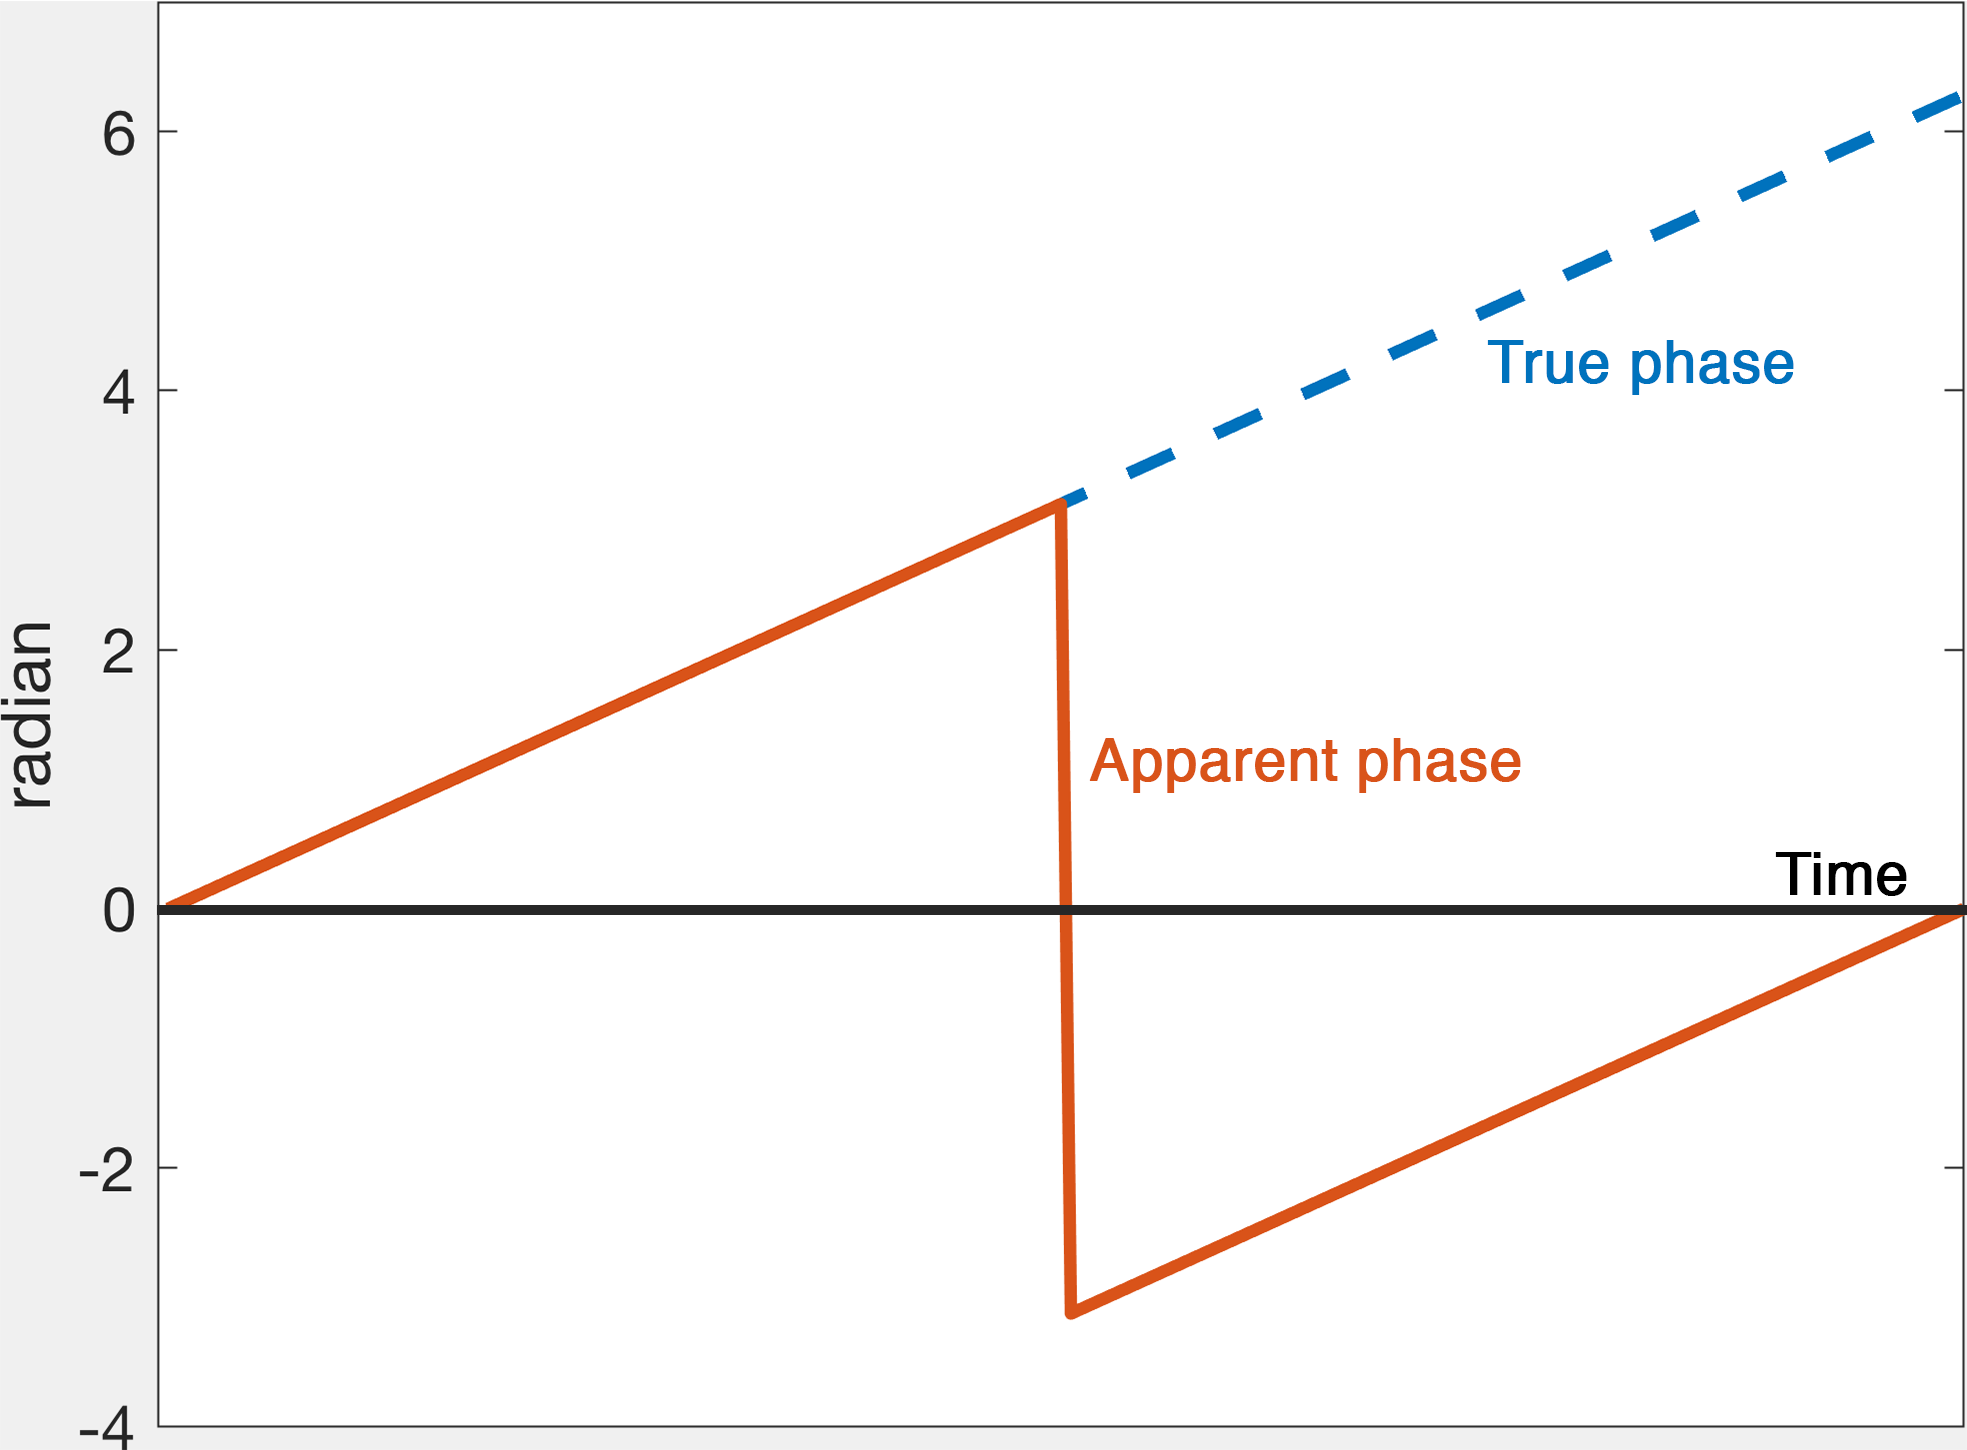
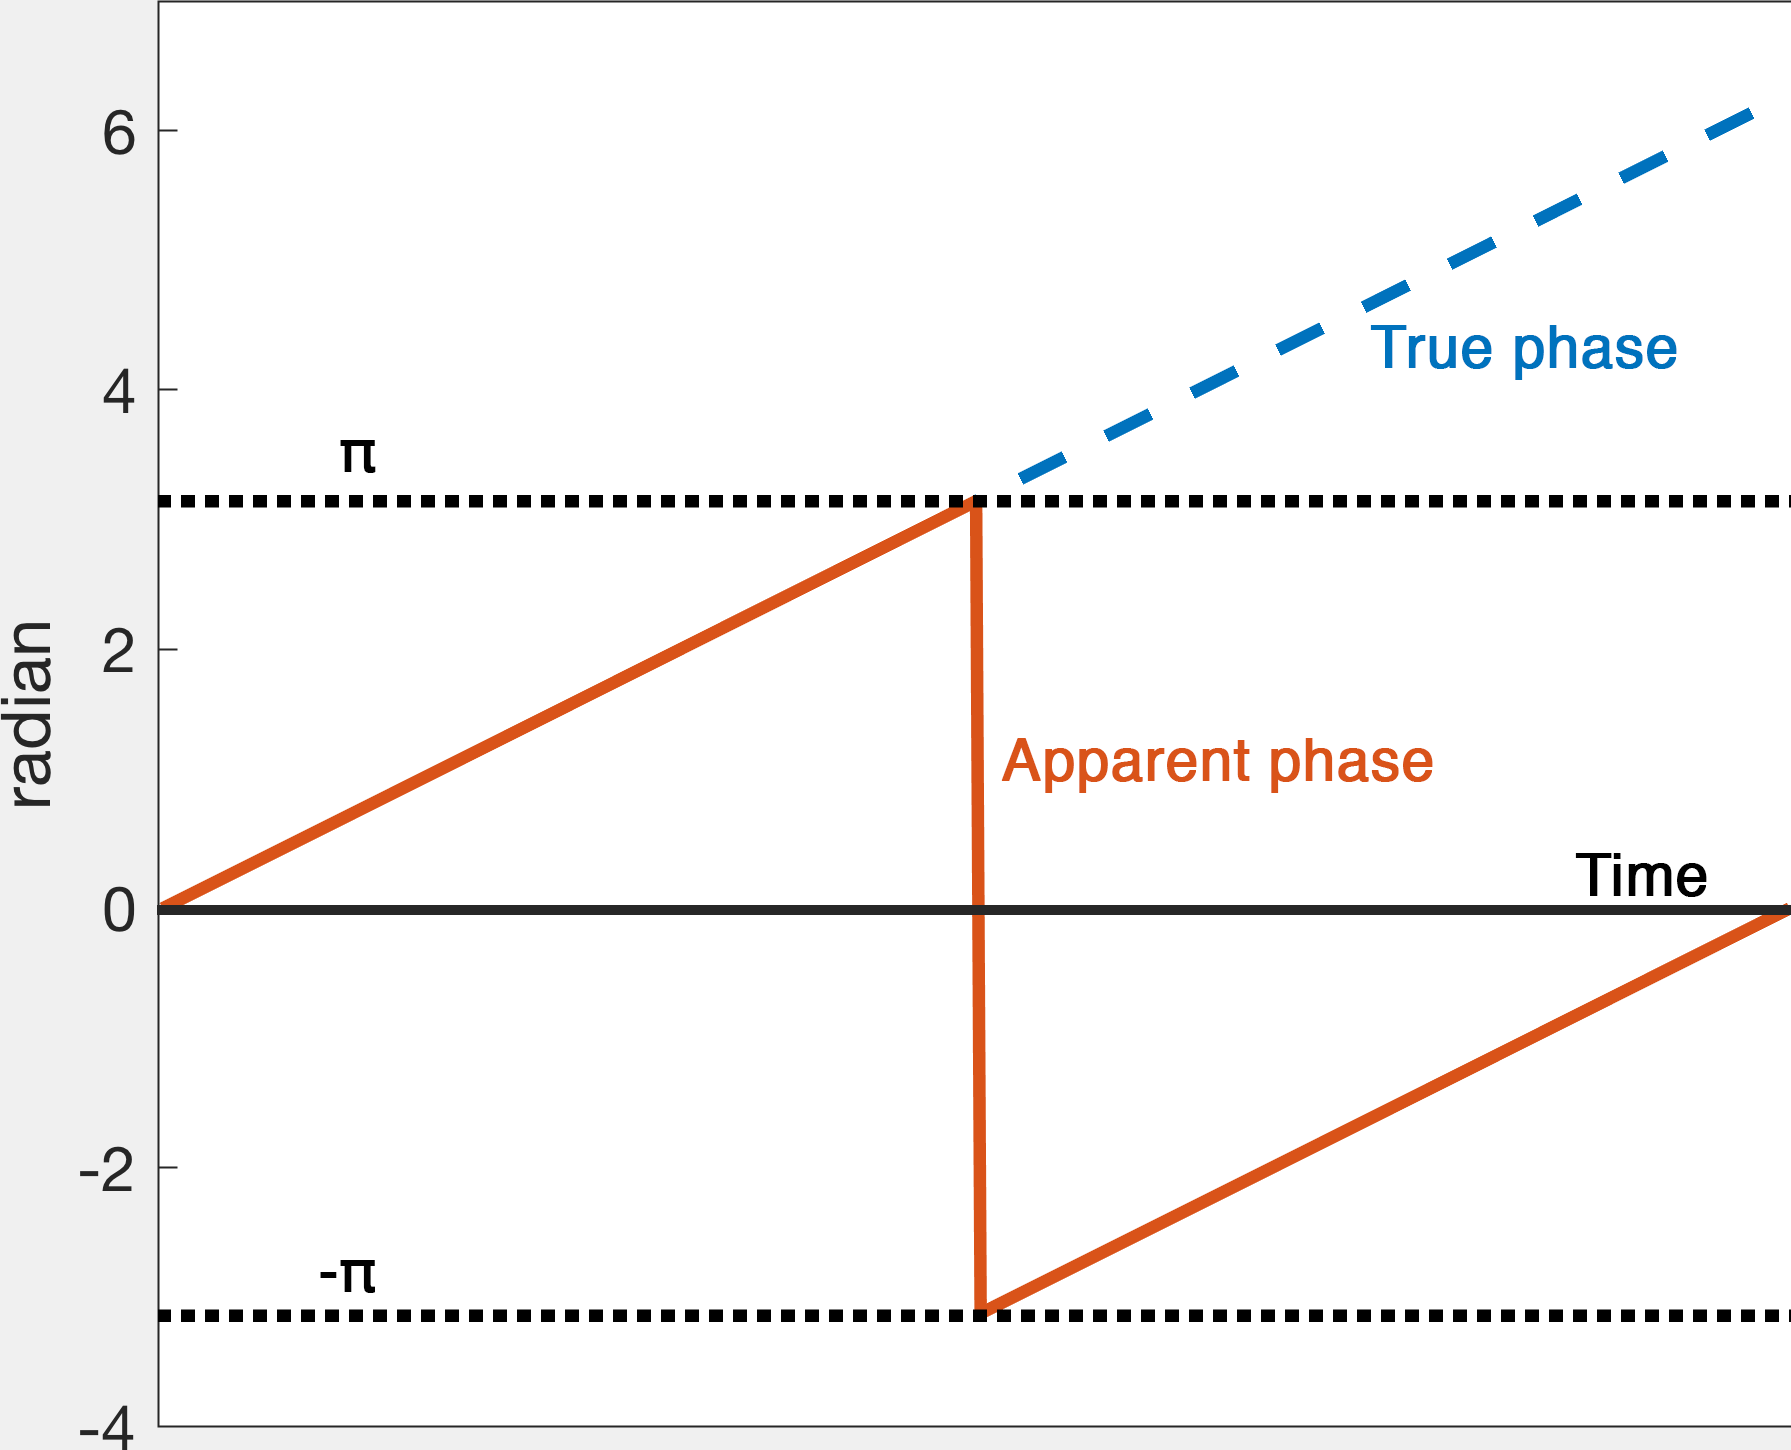
new commit

diff --git a/tutorial/fMRItoolkit2019/Exercise3.rst b/tutorial/fMRItoolkit2019/Exercise3.rst
@@ -1,4 +1,6 @@
 .. _fmritoolkit2019-exercise3:
+.. role::  raw-html(raw)
+    :format: html
 
 Exercise 3
 ==========
@@ -56,31 +58,46 @@ In this exercise, we will focus on the differences when using different 'Peel' v
 
 1. Change the **Output basename** to: *~/qsm_tutorial/data/output_backgroundremove/Sepia_peel-2*
 
-2. Press the **Start** button. Again, you will see the message '*Processing pipeline is completed!*' when the process is finished. 
+2. Press the **Start** button. Again, when the process is finished, you will see the message:
+   '*Processing pipeline is completed!*'. 
 
 3. After the first processing is done, change the 'Peel' value to '4'
 
 4. Change the **Output Basename** to *~/qsm_tutorial/data/output_backgroundremove/Sepia_peel-4* and then press the **Start**
 
-5. Use FSLeyes to display both output images (should be in *~/qsm_tutorial/data/output_backgroundremove/*) at the same time:
+5. Use FSLView to display the local field map (Hz) when using 'Peel' value of 2 (should be in *~/qsm_tutorial/data/output_backgroundremove/*):
 
-  ``fsleyes Sepia_peel-2_local-field.nii.gz``
+  ``fslview_deprecated Sepia_peel-2_local-field.nii.gz &``
 
-  You can do this using the '+' button in the bottom right panel and select *Sepia_peel-4_local-field.nii.gz* in the window provided. 
+  Load the *Sepia_peel-4_local-field.nii.gz* map in the same window. You can do this by selecting 'File :raw-html:`&rarr;` Add...' (or shorcut `Crtl+A`) and select *Sepia_peel-4_local-field.nii.gz* in the window provided. 
 
-  .. image:: images/plus_button.png
+  .. image:: images/add_new_file.png
      :align: center
  
-  Adjust the display window to 'Min. -5' and 'Max. 5'. Use the 'Opacity' slide to alter the transparency of the top image. What is the main difference between the two results?
+  #. Adjust the display window to 'Min -5' and 'Max 5' for both images. 
+  
+  #. Go to location [119 142 88] so that you can see the differences between the two maps with a better view. 
+  
+  #. Check/Uncheck the 'Visibility' button in the buttom of the viewer to turn on/off of the top image. What is the main difference between the two results?
 
-  .. image:: images/local_field_window.png
+  .. image:: images/visibility_button.png
      :align: center
 
 Note that you can also see very clearly the contrast between grey and white matter, and veins and tissue now. Other structures as the globus pallidus, red nuclei and substantia nigra are visible... but not quite normal.
 
-7. Compare the location of the edges with what you can see in the mean magnitude image. This can be computed on the terminal using (assuming you are still in the data directory, if not then go back to the data directory *~/qsm_tutorial/data/*):
+6. Compare the location of the edges with what you can see in the mean magnitude image. (Assuming you are still in the data directory, if not then go back to the data directory *~/qsm_tutorial/data/* in the terminal) This can be computed on the terminal using:
 
   ``fslmaths mag.nii.gz -Tmean mag_mean.nii.gz``
+
+  #. Use shortcut `Crtl+A` in the viewer to add *mag_mean.nii.gz* to the currently displayed loca field maps.
+
+  #. Adjust the display window of *mag_mean.nii.gz* to 'Min 0' and 'Max 300'.
+
+  #. Go to location [133 155 81] which is the top edge of the globus pallidus.
+
+  #. Check/Uncheck the 'Visibility' button to turn on/off of the mean magnitude image.
+
+  #. It is known that there is high concentration of iron deposition (i.e. paramagnetic substance) in the globus pallidus. Can you identify the secondary magnetic field generated by this structure?
 
 Proceed to :ref:`fmritoolkit2019-exercise4`.
 

diff --git a/tutorial/fMRItoolkit2019/Exercise1.rst b/tutorial/fMRItoolkit2019/Exercise1.rst
@@ -65,18 +65,20 @@ You will see two NIfTI images (.nii.gz) and a few JSON files (.json) in the dire
 Magnitude images
 ^^^^^^^^^^^^^^^^
 
-Take a look at the magnitude images. You can do this by calling the image viewer FSLeyes in the terminal:
+Take a look at the magnitude images. You can do this by calling the image viewer FSLView in the terminal:
 
-``fsleyes mag.nii.gz``
+``fslview_deprecated mag.nii.gz &``
 
-.. tip:: If you can't see the movie with FSLeyes, replace the command ``fsleyes`` by ``fslview_deprecated``.
+.. note:: The '&' character will enable the viewer running in the background so that you can still work with the current section in the terminal.
 
-Once you have the magnitude images opened in the viewer, adjust the display window to 'Min. 0' and 'Max. 300'. Then click the movie button to see how the brain contrast changes over time.
+Once you have the magnitude images opened in the viewer, adjust the display window to 'Min 0' and 'Max 300'. Then click the movie button to see how the brain contrast changes over time.
 
 .. image:: images/mag_display.png
    :align: center
 
-You can also press ``Ctrl+3`` to see the plot of signal evolution at different brain tissues. Select a few data points in the brain (e.g. [98 169 87], [143 106 92], and [159 190 77]), how do you describe the signal curve? 
+.. note:: Due to the file size, it is better to view the images with FSLView instead of FSLeyes.
+
+You can also press ``Ctrl+T`` to see the plot of signal evolution at different brain tissues. Select a few data points in the brain (e.g. caudate nucleus [98 169 87], white matter [143 106 92], and cortical grey matter [159 190 77]), how do you describe the signal curves? 
 
 .. toctree::
    :maxdepth: 1
@@ -88,11 +90,11 @@ Phase images
 
 Take a look at the phase images:
 
-``fsleyes phase.nii.gz``
+``fslview_deprecated phase.nii.gz &``
 
 The phase images look different compared to the magnitude images and with the current display window it is hard to see any contrast of brain tissues. 
 
-Adjust the display window to 'Min. -3.14' and 'Max. -1', you should be able to identify some brain structures. 
+Adjust the display window to 'Min. -3.14' and 'Max. -1', and go through different slices. You should be able to identify some brain structures (e.g. at location [114 170 82]). 
 
 .. image:: images/phase_display.png
    :align: center
@@ -110,7 +112,7 @@ Based on Eq. :eq:`pft`, it is expected the phase increases/decreases monotonical
 
    Exercise1_progress2
 
-Press ``Ctrl+3`` to see the phase curve at those problematic regions. Can you identify the cause of the problem?
+Press ``Ctrl+3`` to see the phase curve at those problematic regions (e.g. near the prefontal cortex [113 195 65]). Can you identify the cause of the problem?
 
 .. toctree::
    :maxdepth: 1

diff --git a/tutorial/fMRItoolkit2019/Exercise2.rst b/tutorial/fMRItoolkit2019/Exercise2.rst
@@ -6,6 +6,7 @@ Exercise 2
 Objectives
 ----------
 
+- Gaining experience in using SEPIA
 - Understanding how to perform phase unwrapping
 
 Data Required
@@ -63,8 +64,8 @@ Select the **Utility** tab and then select **Get header info** in the drop-down 
 With all the NifTI images and JSON files stored in the same place, we can use 'Op 2' routine: 
 
 #. click **Open** next to 'Op 2' 
-#. select *~/qsm_tutorial/data* as the input. 
-#. click **Save header** to save the file. The process is done when you see the message 'SEPIA header is saved!' in the command window. You should see a new file is generated in the input directory. 
+#. select *~/qsm_tutorial/data* as the input (The dialog box will show the current directory in Matlab). 
+#. click **Save header** to save the file. The process is done when you see the message '*SEPIA header is saved!*' in the command window. You should see a new file is generated in the input directory. 
 
 Your setting should be similar to the following:
 
@@ -99,15 +100,17 @@ It should look like this:
 
 Then click the **Start** button.
 
-You should now see some messages displayed in the Matlab's command window. These messages give you the general information of your input data and the overview of the selected method. Once the process finishes (~3min), you will see the message '*Processing pipeline is completed!*'. 
+You should now see some messages displayed in the Matlab's command window. These messages give you the general information of your input data and the overview of the selected method. Once the process finishes (~3min), you will see the message 
+
+'*Processing pipeline is completed!*'. 
 
 Check the output (should be in *~/qsm_tutorial/data/output_unwrap/*), in the terminal type: 
 
-``fsleyes Sepia_unwrapped-phase.nii.gz``
+``fslview_deprecated Sepia_unwrapped-phase.nii.gz``
 
-``fsleyes Sepia_total-field.nii.gz``
+``fslview_deprecated Sepia_total-field.nii.gz``
 
-The first dataset is the unwrapped phase images. Observe the phase development over time. All the zebra-line pattern and phase jumps are gone in the later echoes. 
+The first dataset is the unwrapped phase images (unit in radian). Observe the phase development over time. All the zebra-line pattern and phase jumps are gone in the later echoes. 
 The second corresponds to the frequency (Hz) which was computed using the unwrapped phase images at the different echo times:
 
 .. math::

diff --git a/tutorial/fMRItoolkit2019/Exercise4.rst b/tutorial/fMRItoolkit2019/Exercise4.rst
@@ -67,7 +67,7 @@ To avoid the previous QSM map we can increase the threshold of the **TKD**.
 
 #. Change the **Output basename** to: *~/qsm_tutorial/data/output_qsm/Sepia_tkd-0p15*. 
 #. Change the threshold of the **TKD** algorithm to 0.15 and press **Start**.
-#. Check the result *Sepia_tkd-0p15_QSM.nii.gz* in the output directory. Display it along with the *Sepia_tkd-0_QSM.nii.gz* in FSLeyes using the '+' button. Do you see any improvement?
+#. Check the result *Sepia_tkd-0p15_QSM.nii.gz* in the output directory. Display it along with the *Sepia_tkd-0_QSM.nii.gz* in FSLView using the '+' button. Do you see any improvement?
 #. Compare the location of the tissue edges in this QSM map with what you can see in the mean magnitude image *mag_mean.nii.gz*. Do the edges match between the two data now?
 
 .. toctree::
@@ -82,7 +82,7 @@ To further improve the quality of the QSM map, some methods, such as Star-QSM, i
 
 #. Change the **Output basename** to: *~/qsm_tutorial/data/output_qsm/Sepia_star-qsm*.
 #. Change the **QSM** method to 'Star-QSM' and press **Start**. It will take about 2 mins to finish.
-#. Check the result *Sepia_star-qsm_QSM.nii.gz* in the output directory. Display it along with the *Sepia_tdf-0p15_QSM.nii.gz* in FSLeyes. Can you see any difference?
+#. Check the result *Sepia_star-qsm_QSM.nii.gz* in the output directory. Display it along with the *Sepia_tdf-0p15_QSM.nii.gz* in FSLView. Can you see any difference?
 
 .. toctree::
    :maxdepth: 1

diff --git a/tutorial/fMRItoolkit2019/Exercise1_answerC.rst b/tutorial/fMRItoolkit2019/Exercise1_answerC.rst
@@ -7,8 +7,8 @@ Yes, this is the correct answer! There is nothing wrong about the signal phase g
 
 .. figure:: images/phase_wrap.png
 
-   An illustration of phase wrapping. The actual phase developed outside the range :math:`-\pi \leq phase < \pi` over time but our measurement will only show the apparent phase.
+   Figure 1: An illustration of phase wrapping. The actual phase developed outside the range :math:`-\pi \leq phase < \pi` over time but our measurement will only show the apparent phase.
 
-.. note:: Think of an analogue clock with one hand only representing the hour. Every 12 hours the hand is in the same position again. If you look at the clock exactly 12 hours after the first watch, it apparently didn't move but the actual time difference between the two observations that you made is 12 hours.
+.. note:: Think of an analogue clock with one hand only representing the hour. Every 12 hours the hand starts a new cycle again. If you look at the clock 13 hours after the first watch, it apparently advanced 1 hour only but the actual time difference between the two observations is 13 hours.
 
 Back to :ref:`fmritoolkit2019-exercise1`.

diff --git a/tutorial/fMRItoolkit2019/Exercise1_answerE.rst b/tutorial/fMRItoolkit2019/Exercise1_answerE.rst
@@ -7,8 +7,8 @@ There is nothing wrong about the signal phase generated by the tissues. However,
 
 .. figure:: images/phase_wrap.png
 
-   An illustration of phase wrapping. The actual phase developed outside the range :math:`-\pi \leq phase < \pi` over time but our measurement will only show the apparent phase.
+   Figure 1: An illustration of phase wrapping. The actual phase developed outside the range :math:`-\pi \leq phase < \pi` over time but our measurement will only show the apparent phase.
 
-.. note:: Think of an analogue clock with one hand only representing the hour. Every 12 hours the hand is in the same position again. If you look at the clock exactly 12 hours after the first watch, it apparently didn't move but the actual time difference between the two observations that you made is 12 hours.
+.. note:: Think of an analogue clock with one hand only representing the hour. Every 12 hours the hand starts a new cycle again. If you look at the clock 13 hours after the first watch, it apparently advanced 1 hour only but the actual time difference between the two observations is 13 hours.
 
 Back to :ref:`fmritoolkit2019-exercise1`.

diff --git a/tutorial/fMRItoolkit2019/Theory_backgroundfieldremoval.rst b/tutorial/fMRItoolkit2019/Theory_backgroundfieldremoval.rst
@@ -3,7 +3,7 @@
 One more step before computing QSM but why?
 ===========================================
 
-In the first exercise, display windowing had to be adjusted in order to visualize some brain structures. Why are these tissue contrasts 'hidden' in our images?   
+In the first exercise, display window had to be adjusted in order to visualize some brain structures. Why are these tissue contrasts 'hidden' in our images?   
 
 The data contains not only the phase generated by the brain tissues but also by the scanner hardware imperfection and fields generated at air/tissue interfaces such as sinuses and ear canals. 
 
